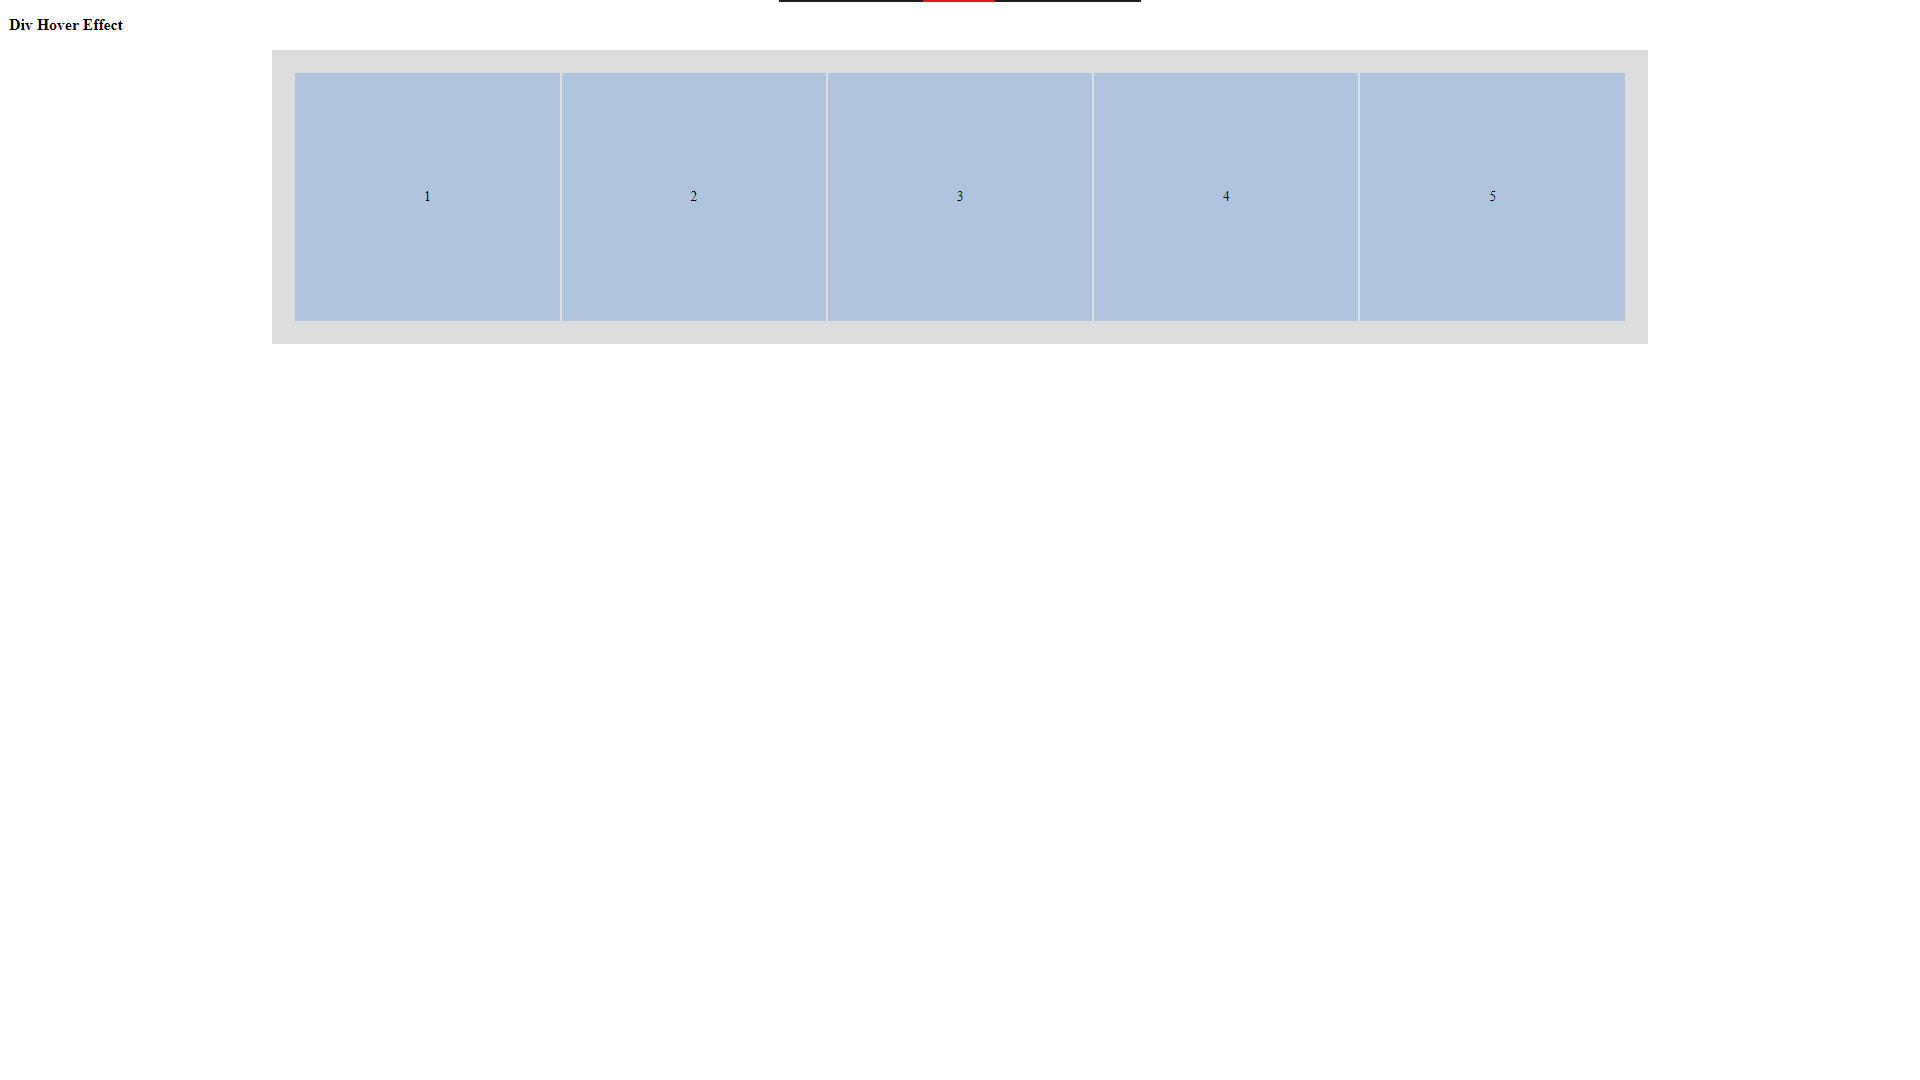
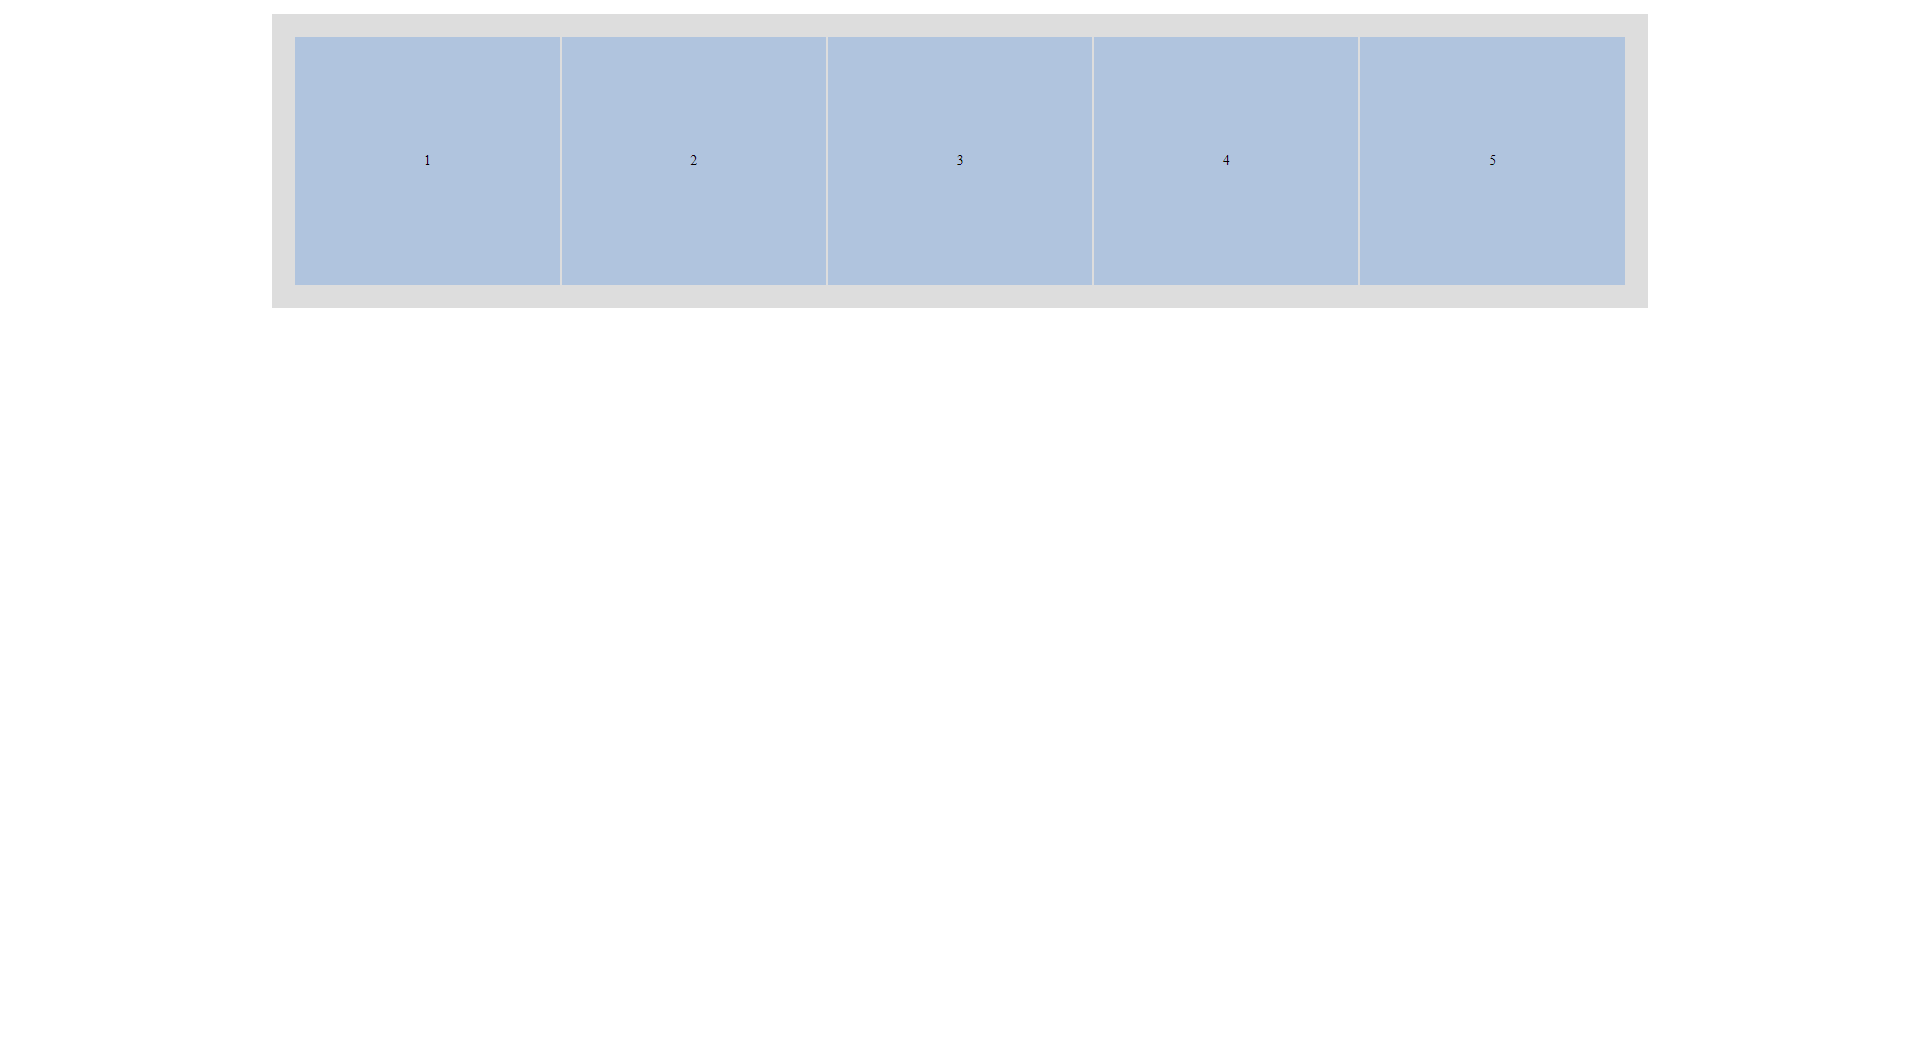
update

Changed region(s): [[0.125, 0.0, 0.875, 0.092], [0.125, 0.2759, 0.875, 0.3372], [0.0, 0.0, 0.0625, 0.0307]]

diff --git a/index.html b/index.html
@@ -11,10 +11,6 @@
 		
 		<nav>
 			<ul class="liste">
-				<!-- <li class="item">Accueil</li>
-				<li class="item">Projets</li>
-				<li class="item">Services</li>
-				<li class="item">Contact</li> -->
 				<input id="searchbar" class="searchbar items" onkeyup="search_modal()" type="text" name="search" placeholder="Search modals">
 			</ul>
 		</nav>
@@ -25,7 +21,7 @@
 				<div class="card search ">
 					<a id="card-Accordion_Menu" href="#">
 						<div class="Accordion_Menu container ">
-							<img class="bg-card" id="bg-Acc" src="./asset/src/Accordion_Menu/screen/panel_default.png" height="150" alt="" srcset="" onmouseover="document.getElementById('bg-Acc').src='./asset/src/Accordion_Menu/screen/Accordion_Menu2.gif'" onmouseout="document.getElementById('bg-Acc').src='./asset/src/Accordion_Menu/screen/panel_default.png'">
+							<img class="bg-card" id="bg-Acc" src="./asset/src/Accordion_Menu/screen/panel_default.png" alt="" onmouseover="bg_Acc(true)" onmouseout="bg_Acc(false)">
 							<div class="banner">
 								<h2 class="title">
 									Accordion_Menu
@@ -69,13 +65,14 @@
 				</div>
 				<div class="card search">
 					<a href="#">
-						<div class=" container">
+						<div class="Div_Onhover_Effect container">
+							<img src="./asset/src/Div_Onhover_Effect/screen/panel_default2.png" class="bg-card" alt="">
 							<div class="banner">
 								<h2 class="title">
-									Custom_Checkbox_Design
+									Div_Onhover_Effect
 								</h2>
 								<h3 class="subtitle">
-									une checkbox d'acceptation de condition d'un autre genre :D 
+									Ouverture de 5 panels independant 
 								</h3>
 							</div>
 						</div>
@@ -83,13 +80,14 @@
 				</div>
 				<div class="card search">
 					<a href="#">
-						<div class=" container">
+						<div class="Gradient_Drop_Shadow container">
+							<img src="./asset/src/Gradient_Drop_Shadow/screen/panel.png" class="bg-card" alt="">
 							<div class="banner">
 								<h2 class="title">
-									Custom_Checkbox_Design
+									Gradient_Drop_Shadow
 								</h2>
 								<h3 class="subtitle">
-									une checkbox d'acceptation de condition d'un autre genre :D 
+									Un simple degrade de couleur avec des ombres
 								</h3>
 							</div>
 						</div>
@@ -97,13 +95,14 @@
 				</div>
 				<div class="card search">
 					<a href="#">
-						<div class=" container">
+						<div class="Keys_Socials container">
+							<img src="./asset/src/Key_Socials/screen/panel_default.png" class="bg-card" alt="">
 							<div class="banner">
 								<h2 class="title">
-									Custom_Checkbox_Design
+									Keys_Socials
 								</h2>
 								<h3 class="subtitle">
-									une checkbox d'acceptation de condition d'un autre genre :D 
+									touche large vers les differants reseaux sociaux  
 								</h3>
 							</div>
 						</div>
@@ -111,13 +110,14 @@
 				</div>
 				<div class="card search">
 					<a href="#">
-						<div class=" container">
+						<div class="Main_Swap container">
+							<img src="./asset/src/Main_Swap/screen/landing.png" class="bg-card" alt="">
 							<div class="banner">
 								<h2 class="title">
-									Custom_Checkbox_Design
+									Main_Swap
 								</h2>
 								<h3 class="subtitle">
-									une checkbox d'acceptation de condition d'un autre genre :D 
+									transition swap bg-img et bg-blanc sur du texte
 								</h3>
 							</div>
 						</div>

diff --git a/JS/app.js b/JS/app.js
@@ -26,9 +26,10 @@ function search_modal() {
     let input = document.getElementById('searchbar').value
     input=input.toLowerCase();
     let x = document.getElementsByClassName('search');
+    let y = document.getElementsByClassName('banner')
       
     for (i = 0; i < x.length; i++) { 
-        if (!x[i].innerHTML.toLowerCase().includes(input)) {
+        if (!y[i].innerHTML.toLowerCase().includes(input)) {
             x[i].style.display="none";
         }
         else {
@@ -36,3 +37,12 @@ function search_modal() {
         }
     }
 }
+
+function bg_Acc(shouldPlay) {
+    const e = document.getElementById('bg-Acc');
+    if (shouldPlay) {
+      e.src = '../asset/src/Accordion_Menu/screen/Accordion_Menu2.gif';
+    } else {
+      e.src = '../asset/src/Accordion_Menu/screen/panel_default.png';
+    }
+  }

diff --git a/CSS/cards.css b/CSS/cards.css
@@ -1,10 +1,15 @@
 
+.Accordion_Menu img{
+	width: auto;
+	height: 200%;	
+	transform: translate(-232px , -125px)
+}
 .Accordion_Menu .banner {
 	mix-blend-mode: difference;
 }
 
 .Card_OS .banner {
-	mix-blend-mode: difference;
+	mix-blend-mode:hard-light;
 	
 }
 
@@ -20,4 +25,24 @@
 	background-size: 129%; 
 	background-position:  -4.2rem -10.4rem; 
 	background-image: url(../asset/src/Custom_Checkbox_Design/screen/Custom_Checkbox_Design2.gif);
+	
 }
+
+
+.Div_Onhover_Effect img{
+	width: 125%;
+	height: auto;
+	transform: translate(-50px , -90px)
+}
+
+.Div_Onhover_Effect .banner {
+	mix-blend-mode:difference;
+}
+
+.Gradient_Drop_Shadow img{
+	width: 200%;
+	height: auto;
+	transform: translate(-200px , -130px)
+}
+.Keys_Socials{}
+

diff --git a/CSS/style.css b/CSS/style.css
@@ -95,7 +95,8 @@ nav {
 }
 
 .container{
-    background-image: url(../asset/img/test.jpg);
+    /* background-image: url(../asset/img/test.jpg); */
+    background-color: white;
     background-size:cover;
     background-repeat: no-repeat;
     background-position: center;
@@ -121,10 +122,10 @@ nav {
 
     position: absolute;
     width: 100%;
-    height: 9vh;
+    height: 5.5vh;
     color: #e6e6e6;
     box-shadow: 0px -.5px 5px #333;
-    padding: 5px;
+    padding: 5px 10px 5px 10px;
     border-radius:  0 0 20px 20px;
     backdrop-filter: blur(4px);
 }
